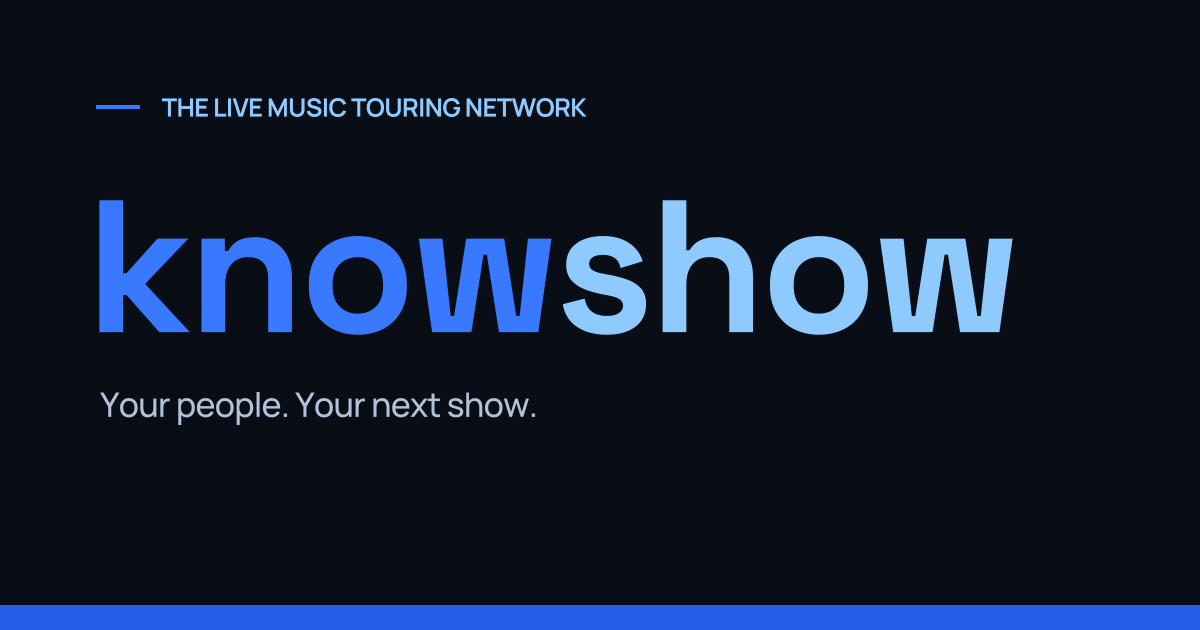
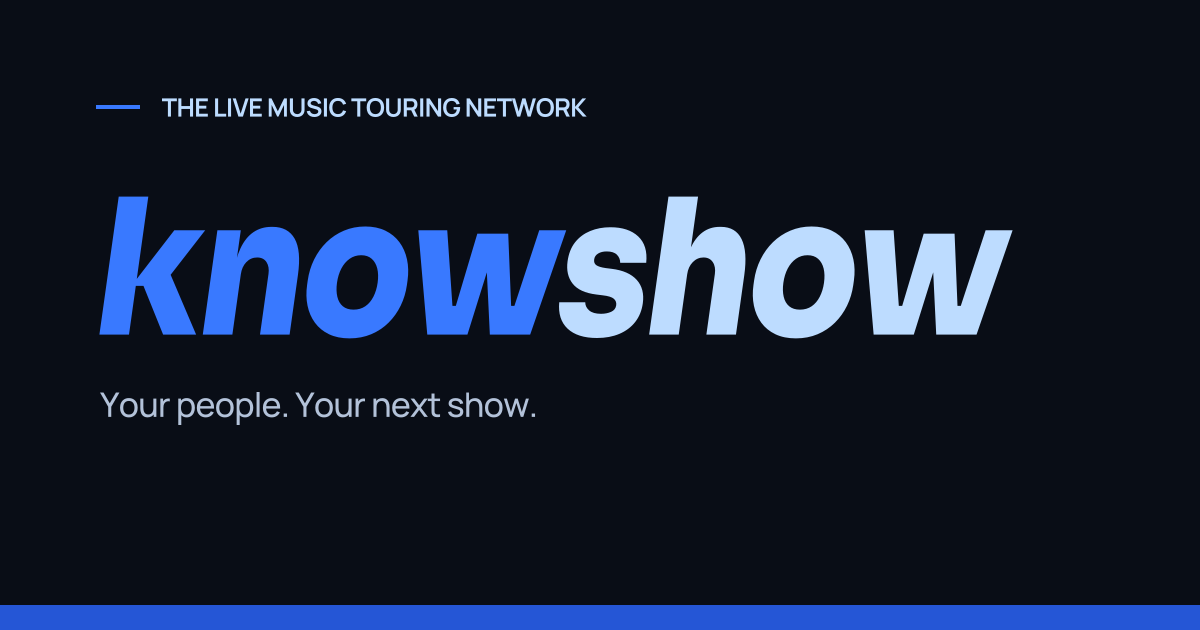
Make Drive the default KnowShow identity across the app and marketing

Changed region(s): [[0.0617, 0.3016, 0.8633, 0.5429], [0.1233, 0.1508, 0.4933, 0.181]]

diff --git a/app/assets/stylesheets/_marketing.scss b/app/assets/stylesheets/_marketing.scss
@@ -1,6 +1,6 @@
 // KnowShow: dark stage, electric blue, clear information. Content honors appearance.
 .marketing-home {
-  --marketing-navy: #255ce8;
+  --marketing-navy: #{$primary};
   --marketing-navy-deep: #101827;
   --marketing-cyan: #3979ff;
   --marketing-sky: #e9f0ff;
@@ -52,7 +52,7 @@
 .marketing-hero h1 span { display: block; color: #6da4ff; }
 .marketing-hero__lede { max-width: 470px; color: #9daec8; font-size: 1rem; line-height: 1.8; margin-bottom: 2rem; }
 .marketing-hero__actions { flex-wrap: wrap; gap: .7rem; }
-.marketing-home .btn-primary { background: #255ce8; color: #fff; border-color: #255ce8; }
+.marketing-home .btn-primary { background: $primary; color: #fff; border-color: $primary; }
 .marketing-home .btn-primary:hover { background: #164ad0; border-color: #164ad0; }
 .marketing-hero .btn-outline-primary { color: #dce8ff; border-color: #334563; }
 .marketing-hero .btn-outline-primary:hover { background: #18243a; border-color: #6da4ff; }
@@ -65,7 +65,7 @@
 .marketing-product-preview__topbar { display: flex; align-items: center; gap: .8rem; padding: 1rem 1.2rem; border-bottom: 1px solid #24324a; color: #8fa2bf; font-size: .67rem; }
 .marketing-window-dots { display: flex; gap: 4px; margin-right: auto; }
 .marketing-window-dots span { width: 5px; height: 5px; background: #3a4b67; border-radius: 50%; }
-.marketing-live-pill { margin-left: auto; color: #8fcaff; font-weight: 700; font-size: .6rem; text-transform: uppercase; letter-spacing: .06em; }
+.marketing-live-pill { margin-left: auto; color: $brand-ice; font-weight: 700; font-size: .6rem; text-transform: uppercase; letter-spacing: .06em; }
 .marketing-product-preview__body { padding: clamp(1.15rem, 3vw, 1.8rem); }
 .marketing-preview-heading { display: flex; justify-content: space-between; gap: .7rem; align-items: center; margin-bottom: 1.3rem; }
 .marketing-preview-heading > div { display: flex; flex-direction: column; gap: .4rem; }
@@ -81,7 +81,7 @@
 .marketing-crew-row__copy { display: flex; flex-direction: column; gap: .25rem; min-width: 0; flex: 1; }
 .marketing-crew-row__copy strong { color: #e7efff; font-size: .78rem; }
 .marketing-crew-row__copy span { color: #8fa2bf; font-size: .7rem; }
-.marketing-crew-reason { color: #8fcaff; font-size: .7rem; font-weight: 600; white-space: nowrap; }
+.marketing-crew-reason { color: $brand-ice; font-size: .7rem; font-weight: 600; white-space: nowrap; }
 .marketing-preview-note { display: flex; align-items: flex-start; gap: .45rem; font-size: .7rem; color: #92a4bf; margin-top: 1.2rem; line-height: 1.7; }
 .marketing-preview-note i { color: #6fa7ff; }
 .marketing-preview-caption { margin: 1rem 0 0; color: #7285a4; font-size: .7rem; }
@@ -102,7 +102,7 @@
 .marketing-step h3, .marketing-feature h3 { font: 700 1.2rem "Space Grotesk", sans-serif; color: var(--marketing-ink); margin-bottom: .8rem; letter-spacing: -.02em; }
 .marketing-step p, .marketing-feature p { margin: 0; color: var(--marketing-muted); font-size: .84rem; line-height: 1.8; }
 .marketing-audience-heading { display: flex; max-width: 820px; gap: 1.3rem; align-items: flex-start; margin-bottom: 3rem; }
-.marketing-audience-icon { display: grid; place-items: center; width: 3.3rem; height: 3.3rem; flex-shrink: 0; background: #255ce8; color: #fff; border-radius: 9px; font-size: 1.3rem; }
+.marketing-audience-icon { display: grid; place-items: center; width: 3.3rem; height: 3.3rem; flex-shrink: 0; background: $primary; color: #fff; border-radius: 9px; font-size: 1.3rem; }
 .marketing-audience-icon--navy { background: #101827; }
 .marketing-bento { display: grid; grid-template-columns: repeat(2, minmax(0, 1fr)); gap: 1rem; }
 .marketing-feature--wide { grid-column: 1 / -1; }
@@ -114,7 +114,7 @@
 .marketing-price-grid { display: grid; grid-template-columns: repeat(2, minmax(0, 1fr)); gap: 1.3rem; max-width: 900px; margin: auto; }
 .marketing-price-card { border: 1px solid var(--marketing-line); background: var(--marketing-surface); border-radius: 12px; padding: 2rem; }
 .marketing-price-card--featured { border-color: #3979ff; }
-.marketing-price-card__badge { display: inline-block; color: #fff; background: #255ce8; border-radius: 4px; font-size: .7rem; font-weight: 700; padding: .35rem .6rem; margin-bottom: .8rem; }
+.marketing-price-card__badge { display: inline-block; color: #fff; background: $primary; border-radius: 4px; font-size: .7rem; font-weight: 700; padding: .35rem .6rem; margin-bottom: .8rem; }
 .marketing-price-card h3 { font: 700 1.3rem "Space Grotesk", sans-serif; }
 .marketing-price-card__price { margin: 1.4rem 0 .4rem; }
 .marketing-price-card__price strong { font: 700 3rem "Space Grotesk", sans-serif; letter-spacing: -.05em; }
@@ -127,11 +127,11 @@
 .marketing-founder-offer > i { color: var(--marketing-navy); font-size: 1.4rem; }
 .marketing-founder-offer h3 { font: 700 1.1rem "Space Grotesk", sans-serif; margin: .5rem 0; }
 .marketing-founder-offer p { color: var(--marketing-muted); font-size: .8rem; line-height: 1.8; }
-.marketing-platform { background: #090d16; color: #e7efff; --marketing-muted: #9caec9; --marketing-ink: #edf3ff; --marketing-line: #2b3c58; --marketing-ice: #172339; --marketing-navy: #8fcaff; }
+.marketing-platform { background: #090d16; color: #e7efff; --marketing-muted: #9caec9; --marketing-ink: #edf3ff; --marketing-line: #2b3c58; --marketing-ice: #172339; --marketing-navy: #{$brand-ice}; }
 .marketing-platform__grid { display: grid; grid-template-columns: 1fr .85fr; gap: clamp(2rem, 6vw, 5rem); align-items: center; }
 .marketing-platform h2 { color: #f3f6ff; }
 .marketing-principle-card { background: #13213a; border: 1px solid #304b74; border-radius: 10px; padding: 2.3rem; }
-.marketing-principle-card > i { color: #8fcaff; font-size: 1.8rem; display: block; margin-bottom: 2rem; }
+.marketing-principle-card > i { color: $brand-ice; font-size: 1.8rem; display: block; margin-bottom: 2rem; }
 .marketing-principle-card h3 { font: 700 1.8rem/1.1 "Space Grotesk", sans-serif; color: #fff; letter-spacing: -.04em; margin: .8rem 0; }
 .marketing-principle-card p { color: #a2b5d3; font-size: .82rem; line-height: 1.8; }
 .marketing-cta { display: grid; place-items: center; text-align: center; color: #fff; background: #2055dd; padding: clamp(4rem, 7vw, 6rem) 0; }

diff --git a/app/assets/stylesheets/_dark_mode.scss b/app/assets/stylesheets/_dark_mode.scss
@@ -26,10 +26,10 @@
   --bs-tertiary-bg-rgb: 27, 37, 55;
   --bs-border-color: #2b3951;
   --bs-border-color-translucent: rgba(110, 139, 169, .3);
-  --bs-primary: #95bbff;
+  --bs-primary: #{$brand-ice};
   --bs-light: #1b2537;
-  --bs-link-color: #95bbff;
-  --bs-link-color-rgb: 149, 187, 255;
+  --bs-link-color: #{$brand-ice};
+  --bs-link-color-rgb: #{to-rgb($brand-ice)};
   --bs-link-hover-color: #c8e5ff;
   --bs-link-hover-color-rgb: 200, 229, 255;
   --app-surface-navy: #1b2537;
@@ -104,7 +104,7 @@
     border-color: var(--bs-border-color);
     &:hover, &:focus-visible, &:active { background: var(--bs-tertiary-bg); color: var(--bs-emphasis-color); border-color: #779bbd; }
   }
-  @each $kind, $ink in (primary: #95bbff, secondary: #b3c7db, danger: #f5a9b4, success: #93d5b6, info: #91d2e0, warning: #edcc87) {
+  @each $kind, $ink in (primary: $brand-ice, secondary: #b3c7db, danger: #f5a9b4, success: #93d5b6, info: #91d2e0, warning: #edcc87) {
     .btn-outline-#{$kind} {
       color: $ink;
       border-color: $ink;
@@ -152,7 +152,7 @@
   .message-bubble-received { background: var(--bs-secondary-bg); color: var(--bs-body-color); border-color: var(--bs-border-color); }
   .message-composer { border-color: var(--bs-border-color); }
   .conversation-list-item:hover { background: var(--bs-tertiary-bg); }
-  .dashboard .profile-completion-wheel { background: conic-gradient(#95bbff var(--profile-completion), #30455b 0); }
+  .dashboard .profile-completion-wheel { background: conic-gradient($brand-ice var(--profile-completion), #30455b 0); }
   .dashboard .profile-completion-wheel__center { color: var(--bs-primary); }
   .profile-show #profile-skills .text-bg-primary { color: var(--bs-primary) !important; background-color: var(--bs-tertiary-bg) !important; border-color: var(--bs-border-color); }
   .company-plan-card--team, .company-plan-card--studio { background: var(--bs-secondary-bg); }
@@ -169,7 +169,7 @@
   .flatpickr-day, .flatpickr-weekday { color: var(--bs-body-color); }
   .flatpickr-day.prevMonthDay, .flatpickr-day.nextMonthDay, .flatpickr-day.flatpickr-disabled { color: #7e91a5; }
   .flatpickr-day:hover { background: var(--bs-tertiary-bg); border-color: var(--bs-border-color); }
-  .flatpickr-day.selected, .flatpickr-day.startRange, .flatpickr-day.endRange { background: #315f86; border-color: #95bbff; color: #fff; }
+  .flatpickr-day.selected, .flatpickr-day.startRange, .flatpickr-day.endRange { background: #315f86; border-color: $brand-ice; color: #fff; }
   .flatpickr-months .flatpickr-prev-month, .flatpickr-months .flatpickr-next-month { fill: var(--bs-body-color); color: var(--bs-body-color); }
 }
 

diff --git a/app/assets/stylesheets/_brand.scss b/app/assets/stylesheets/_brand.scss
@@ -34,7 +34,7 @@
 }
 .brand-directions__header { max-width: 1180px; margin: 0 auto 2.5rem; }
 .brand-directions__back { color: #9cb4d5; text-decoration: none; font-size: .8rem; }
-.brand-directions__eyebrow { color: #8fcaff; text-transform: uppercase; letter-spacing: .16em; font-size: .72rem; margin: 3.5rem 0 1rem; }
+.brand-directions__eyebrow { color: $brand-ice; text-transform: uppercase; letter-spacing: .16em; font-size: .72rem; margin: 3.5rem 0 1rem; }
 .brand-directions h1 { font: 700 clamp(2rem, 5vw, 3.5rem)/1.05 "Space Grotesk", sans-serif; letter-spacing: -.055em; }
 .brand-directions__header > p:not(.brand-directions__eyebrow) { color: #a6b4cb; margin-top: 1.1rem; }
 .brand-directions__note { display: block; color: #8091ac; font-size: .8rem; }
@@ -49,7 +49,7 @@
 .brand-direction__body { padding: 1.5rem; display: flex; flex-direction: column; flex: 1; }
 .brand-direction h2 { font: 700 1.3rem "Space Grotesk", sans-serif; }
 .brand-direction p { font-size: .85rem; color: #a6b4cb; line-height: 1.7; }
-.brand-direction .brand-direction__character { color: #8fcaff; font-weight: 600; }
+.brand-direction .brand-direction__character { color: $brand-ice; font-weight: 600; }
 .brand-direction__actions { display: flex; align-items: center; gap: 1rem; flex-wrap: wrap; margin-top: auto; padding-top: 1rem; }
 .brand-direction__actions a:not(.btn) { color: #c3d7f7; font-size: .75rem; }
 @media (max-width: 700px) { .brand-directions__grid { grid-template-columns: 1fr; } .brand-direction__stage { min-height: 175px; } }
@@ -57,3 +57,6 @@
 .brand-directions__references { display: flex; align-items: center; gap: 1rem; flex-wrap: wrap; margin-top: 1.25rem; font-size: .8rem; color: #8091ac; }
 .brand-directions__references a { color: #b9d5ff; }
 @media (min-width: 701px) and (max-width: 1050px) { .brand-directions__grid { grid-template-columns: 1fr; max-width: 600px; } }
+
+.brand-direction[data-selected="true"] { border-color: #3979ff; box-shadow: 0 0 0 1px #3979ff; }
+.brand-direction__selected { align-self: flex-start; margin: .1rem 0 .8rem; border: 1px solid #3979ff; border-radius: 4px; padding: .25rem .5rem; color: $brand-ice; font-size: .7rem; font-weight: 700; }

diff --git a/app/assets/stylesheets/_concert_scene.scss b/app/assets/stylesheets/_concert_scene.scss
@@ -52,8 +52,8 @@
   transition: border-color .2s, color .2s;
 }
 .concert-scene__toggle[hidden] { display: none; }
-.concert-scene__toggle:hover { border-color: #8fcaff; color: #fff; }
-.concert-scene__toggle:focus-visible { outline: 3px solid #8fcaff; outline-offset: 3px; }
+.concert-scene__toggle:hover { border-color: $brand-ice; color: #fff; }
+.concert-scene__toggle:focus-visible { outline: 3px solid $brand-ice; outline-offset: 3px; }
 .concert-scene__toggle i { font-size: 1rem; }
 @keyframes concert-drift { 0%, 100% { transform: translateY(0) rotate(-.3deg); } 50% { transform: translateY(-5px) rotate(.3deg); } }
 @keyframes concert-glow { 0%, 100% { opacity: .65; } 50% { opacity: 1; } }

diff --git a/app/assets/stylesheets/_theme_variables.scss b/app/assets/stylesheets/_theme_variables.scss
@@ -1,5 +1,5 @@
 // One palette for Bootstrap components, utilities, and KnowShow's custom UI.
-$primary: #255ce8;
+$primary: #2556d6;
 $secondary: #5f6e87;
 $success: #39755b;
 $info: #35758a;
@@ -8,6 +8,7 @@ $danger: #b54453;
 $dark: #101827;
 $light: #f4f8fc;
 $logo: #3979ff;
+$brand-ice: #bddcff;
 $neutral: #e7f0fa;
 
 $body-color: $dark;

diff --git a/app/models/brand_identity.rb b/app/models/brand_identity.rb
@@ -1,5 +1,6 @@
 class BrandIdentity
   NAME = "KnowShow"
+  DEFAULT_CONCEPT_KEY = "drive"
   DESCRIPTION = "KnowShow connects touring crew, musicians and live music companies. Find people by real experience and keep hiring, availability and bookings together."
   Concept = Data.define(:key, :name, :character, :description, :colors)
   CONCEPTS = [
@@ -13,15 +14,19 @@ class BrandIdentity
       description: "Two weights as well as two blues. A lighter know meets a heavier show for a memorable touring-first identity.", colors: [ "#74a9ff", "#3274ff" ]),
     Concept.new(key: "tempo", name: "Tempo", character: "Signal, with a little movement.",
       description: "Open geometric letters with a subtle forward lean. The cleanest of the hybrids, with a little more energy than Signal.", colors: [ "#3979ff", "#99caff" ]),
-    Concept.new(key: "momentum", name: "Momentum", character: "The middle ground. My recommendation.",
+    Concept.new(key: "momentum", name: "Momentum", character: "The middle ground.",
       description: "Signal's geometric shape, a tighter footprint and a measured forward lean. A little more weight and energy, with clear letter shapes.", colors: [ "#3979ff", "#a7cfff" ]),
     Concept.new(key: "drive", name: "Drive", character: "More weight. More attitude.",
       description: "A heavier geometric wordmark with a narrower footprint and stronger lean. Closer to Afterhours, while keeping the letters open and easy to read.", colors: [ "#3979ff", "#bddcff" ])
   ].freeze
 
   def self.concept(key = nil)
-    CONCEPTS.find { |concept| concept.key == key } || CONCEPTS.first
+    CONCEPTS.find { |concept| concept.key == key } || default_concept
   end
+
+  def self.default_concept = CONCEPTS.find { |concept| concept.key == DEFAULT_CONCEPT_KEY }
+  def self.icon_path(format = "svg") = "/brand/knowshow-#{DEFAULT_CONCEPT_KEY}-icon.#{format}"
+  def self.social_image_path = "/brand/knowshow-#{DEFAULT_CONCEPT_KEY}-social.png"
 
   def self.refinements
     %w[tempo momentum drive].map { |key| concept(key) }

diff --git a/test/controllers/marketing_controller_test.rb b/test/controllers/marketing_controller_test.rb
@@ -11,6 +11,8 @@ class MarketingControllerTest < ActionDispatch::IntegrationTest
       assert_response :success
       assert_select "title", text: /KnowShow/
       assert_select "[aria-label='KnowShow']", minimum: 1
+      assert_select "img[src*='knowshow-drive-on-']", minimum: 1
+      assert_select "meta[property='og:image'][content*='knowshow-drive-social.png']"
       assert_select "meta[property='og:title'][content*='KnowShow']"
       assert_select "link[rel='icon'][href*='icon.svg']"
       assert_no_match(/Crewbase|crewbase/i, response.body)
@@ -21,6 +23,7 @@ class MarketingControllerTest < ActionDispatch::IntegrationTest
     get "/brand"
     assert_response :success
     assert_select "[data-brand-direction]", count: 3
+    assert_select "[data-brand-direction='drive'][data-selected='true']"
     assert_select "a[href*='/welcome?concept=']", count: 5
     assert_select "a[download][href$='.svg']", count: 6
     %w[tempo momentum drive].each do |key|
@@ -80,6 +83,7 @@ class MarketingControllerTest < ActionDispatch::IntegrationTest
       email: "marketing-member@example.com",
       password: "password123"
     )
+    user.roles << Role.find_or_create_by!(name: "user")
     user.profiles.create!(profile_type: "user", completed_at: Time.current)
     user.visits.create!
     sign_in user, scope: :user
@@ -87,6 +91,10 @@ class MarketingControllerTest < ActionDispatch::IntegrationTest
     get root_path
 
     assert_redirected_to usr_dashboards_path
+
+    get usr_dashboards_path
+    assert_response :success
+    assert_select ".navbar-brand img[src*='knowshow-drive-on-']", minimum: 1
   end
 
   test "meet the team introduces both founders" do

diff --git a/test/components/shared/brand_wordmark_component_test.rb b/test/components/shared/brand_wordmark_component_test.rb
@@ -4,15 +4,15 @@ class Shared::BrandWordmarkComponentTest < ViewComponent::TestCase
   test "renders an accessible lowercase wordmark for light and dark surfaces without another page heading" do
     render_inline Shared::BrandWordmarkComponent.new
     assert_selector "[aria-label='KnowShow']"
-    assert_selector "img[src*='knowshow-signal-on-light']", visible: :all
-    assert_selector "img[src*='knowshow-signal-on-dark']", visible: :all
+    assert_selector "img[src*='knowshow-drive-on-light']", visible: :all
+    assert_selector "img[src*='knowshow-drive-on-dark']", visible: :all
     assert_no_selector "h1"
     assert_no_text "Crewbase"
   end
 
-  test "unknown preview concepts fall back to the working wordmark" do
+  test "unknown preview concepts fall back to the selected Drive wordmark" do
     render_inline Shared::BrandWordmarkComponent.new(concept: "not-a-logo")
-    assert_selector "img[src*='knowshow-signal-on-light']", visible: :all
+    assert_selector "img[src*='knowshow-drive-on-light']", visible: :all
   end
 
   test "hybrid concepts have portable artwork on both surfaces" do

diff --git a/test/models/brand_identity_test.rb b/test/models/brand_identity_test.rb
@@ -1,0 +1,16 @@
+require "test_helper"
+
+class BrandIdentityTest < ActiveSupport::TestCase
+  self.fixture_table_names = []
+
+  test "Drive is the default including unrecognized or absent preview choices" do
+    [ nil, "", "not-a-logo" ].each do |key|
+      assert_equal "drive", BrandIdentity.concept(key).key
+    end
+  end
+
+  test "explicit logo previews remain available" do
+    assert_equal "signal", BrandIdentity.concept("signal").key
+    assert_equal "momentum", BrandIdentity.concept("momentum").key
+  end
+end

diff --git a/test/system/marketing_concert_test.rb b/test/system/marketing_concert_test.rb
@@ -7,6 +7,7 @@ class MarketingConcertTest < ApplicationSystemTestCase
     page.driver.browser.manage.window.resize_to(1440, 1100)
     set_reduced_motion(false)
     visit welcome_path
+    assert_selector ".marketing-nav img[src*='knowshow-drive-on-dark']"
 
     assert_selector ".concert-scene img[alt*='saxophonist']"
     assert page.evaluate_script("document.querySelector('.concert-scene img').complete && document.querySelector('.concert-scene img').naturalWidth > 0")

diff --git a/app/components/marketing/homepage_component.rb b/app/components/marketing/homepage_component.rb
@@ -6,7 +6,7 @@ class Marketing::HomepageComponent < ApplicationComponent
   option :primary_cta_label
   option :primary_cta_path
   option :show_auth_links
-  option :brand_concept, default: proc { "signal" }
+  option :brand_concept, default: proc { BrandIdentity.default_concept.key }
 
   renders_one :brand
   renders_one :appearance

diff --git a/app/components/marketing/brand_directions_component.rb b/app/components/marketing/brand_directions_component.rb
@@ -2,4 +2,6 @@ class Marketing::BrandDirectionsComponent < ApplicationComponent
   renders_many :wordmarks
 
   def concepts = BrandIdentity.refinements
+  def selected_brand_name = BrandIdentity.default_concept.name
+  def selected?(concept) = concept.key == BrandIdentity.default_concept.key
 end
